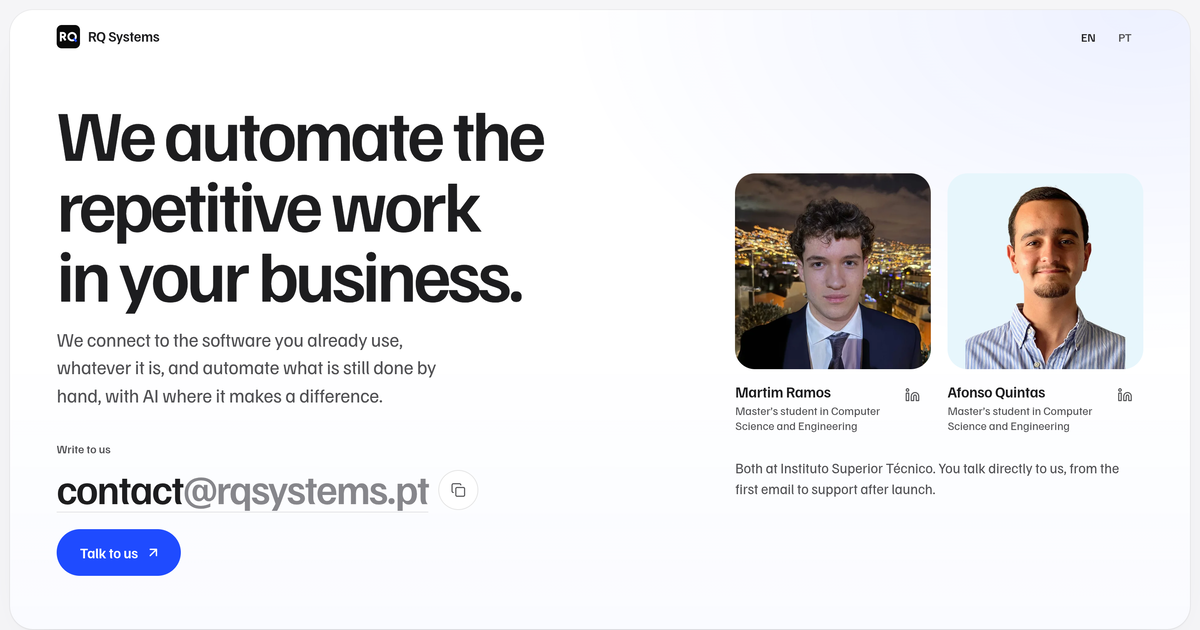
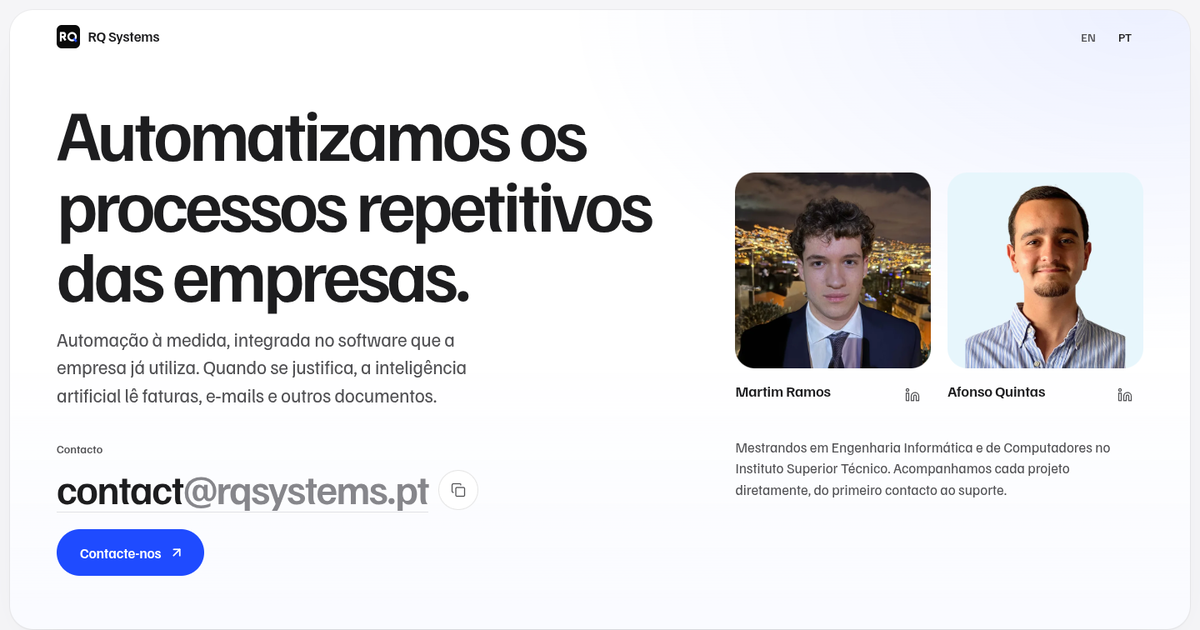
Portuguese by default, formal copy, Alphalink case study
- Portuguese at /, English at /en/; /pt/ redirects to / (301)
- Copy rewritten in formal, institutional European Portuguese (and
  matching English): no second person, AI described concretely, no
  promise of price or timeline
- Case study: Alphalink, linked, with emails filed and hours saved
  and how the hours were estimated; the offer under its own heading
- Lighter page: no repeated lines, shared crew line, Dropbox card
  hidden on mobile
- SEO: keyword titles, shorter meta descriptions, knowsAbout and a
  localised jobTitle in JSON-LD
- Share image recaptured from the Portuguese hero

diff --git a/src/styles/work.css b/src/styles/work.css
@@ -9,10 +9,20 @@
 .work h2 { margin: 0; font-size: clamp(2.25rem, 3.6vw, 3.5rem); font-weight: 600; line-height: 1; letter-spacing: -0.04em; text-wrap: balance; }
 .work-body { margin: 0; max-width: 30rem; color: var(--fg-2); font-size: 1.125rem; line-height: 1.55; text-wrap: pretty; }
 .work-body + .work-body { margin-top: -0.5rem; }
-/* The line that matters past this one client. */
-.work-body:nth-of-type(3) { color: var(--fg); font-weight: 500; }
-/* The ask, set off from the story by a rule, right above its button. */
-.work-ask { margin: 0.75rem 0 0; max-width: 30rem; font-size: 1.125rem; line-height: 1.55; padding-top: 1.5rem; border-top: 1px solid var(--rule); color: var(--fg-2); text-wrap: pretty; }
+.work-client { color: var(--fg); font-weight: 500; text-decoration: underline; text-decoration-color: var(--rule); text-decoration-thickness: 1px; text-underline-offset: 0.2em; transition: text-decoration-color 160ms var(--ease); }
+@media (hover: hover) { .work-client:hover { text-decoration-color: currentColor; } }
+/* Case study: the label, the outcome, then its numbers before the story. */
+.work-eyebrow { margin: 0 0 -0.75rem; color: var(--accent); font-size: 0.8125rem; font-weight: 600; letter-spacing: 0.08em; text-transform: uppercase; }
+.work-stats { display: grid; grid-template-columns: repeat(2, minmax(0, 1fr)); gap: 1.5rem; width: 100%; margin: 0; }
+.work-stats > div { display: flex; flex-direction: column-reverse; gap: 0.25rem; }
+.work-stats > div + div { padding-left: 1.5rem; border-left: 1px solid var(--rule); }
+.work-stats dt { color: var(--fg-2); font-size: 1rem; }
+.work-stats dd { margin: 0; font-size: clamp(2.25rem, 3.6vw, 3rem); font-weight: 600; line-height: 1; letter-spacing: -0.04em; font-variant-numeric: tabular-nums; white-space: nowrap; }
+.work-method { margin: -0.5rem 0 0; max-width: 30rem; color: var(--dim); font-size: 0.875rem; line-height: 1.5; text-wrap: pretty; }
+/* The offer, under its own heading, the full width after the case. */
+.work-cta { grid-column: 1 / -1; display: grid; gap: 1rem; justify-items: start; padding-top: clamp(2rem, 4vw, 3rem); border-top: 1px solid var(--rule); }
+.work-cta h2 { font-size: clamp(1.75rem, 2.8vw, 2.5rem); }
+.work-ask { margin: 0 0 0.5rem; max-width: 34rem; font-size: 1.125rem; line-height: 1.55; color: var(--fg-2); text-wrap: pretty; }
 
 /* Two plain windows side by side, stacked on narrow screens. */
 .flow { margin: 0; min-width: 0; }
@@ -56,22 +66,16 @@
 .ff-n { min-width: 2ch; color: var(--dim); font-size: 12.5px; text-align: right; font-variant-numeric: tabular-nums; }
 .ff.target svg, .ff.target .ff-n { color: var(--lime); }
 
-/* Stacked, the proof comes before the ask: text, then the demo, then the
-   button. */
+/* Stacked: text, demo, numbers, then the ask. */
 @media (max-width: 63.99rem) {
-  .work-copy { display: contents; }
-  .work > .work-copy > .btn, .work-ask { order: 2; }
-  .work > .work-copy > .btn { justify-self: start; }
-  .flow { order: 1; }
   .work { row-gap: 1.25rem; }
   .flow { margin-block: 1.5rem 0.75rem; }
-  .work h2, .work-body { margin: 0; }
-  .work h2 { margin-bottom: 0.5rem; }
-  .work-copy > .btn { margin-top: 0; }
 }
 
 
 @media (max-width: 40rem) {
   .fm { min-height: 0; }
-  .work > .work-copy > .btn { justify-self: stretch; }
+  .work-cta > .btn { justify-self: stretch; }
+  /* The Outlook card already shows where the email went. */
+  .db-card { display: none; }
 }

diff --git a/src/i18n.ts b/src/i18n.ts
@@ -6,22 +6,26 @@ export type Lang = 'en' | 'pt'
 const en = {
   htmlLang: 'en',
   ogLocale: 'en_GB',
-  title: 'RQ Systems',
-  ogTitle: 'RQ Systems',
+  title: 'Business process automation for SMEs | RQ Systems',
+  ogTitle: 'Business process automation for SMEs | RQ Systems',
   description:
-    'Automation built into whatever software your business already runs, with AI where it makes a difference. Designed and built by two Master’s students at Instituto Superior Técnico, Lisbon.',
+    'Custom process automation for SMEs, built into the software a business already uses. Artificial intelligence to read invoices and documents. Lisbon.',
   // What the business is, for search engines (JSON-LD in the layout).
-  about: 'Custom automation built into whatever software a small or medium business already runs, with AI where it makes a difference. Designed, built and maintained by its two founders, Master’s students in Computer Science and Engineering at Instituto Superior Técnico.',
+  knowsAbout: ['Business process automation', 'Software integration', 'Document processing'],
+  jobTitle: 'Co-founder',
+  about: 'Custom automation inside the software a small or medium business already uses, with artificial intelligence to read documents where it is useful. Built and maintained by its two founders, Master’s students in Computer Science and Engineering at Instituto Superior Técnico.',
 }
 
 const pt: typeof en = {
   htmlLang: 'pt-PT',
   ogLocale: 'pt_PT',
-  title: 'RQ Systems',
-  ogTitle: 'RQ Systems',
+  title: 'Automação de processos para PME | RQ Systems',
+  ogTitle: 'Automação de processos para PME | RQ Systems',
   description:
-    'Automação integrada no software que a sua empresa já usa, seja ele qual for, com IA onde faz diferença. Feita por dois mestrandos do Instituto Superior Técnico, em Lisboa.',
-  about: 'Automação à medida, integrada no software que uma PME já utiliza, seja ele qual for, com IA onde faz diferença. Desenhada, construída e mantida pelos dois fundadores, mestrandos em Engenharia Informática e de Computadores no Instituto Superior Técnico.',
+    'Automação de processos à medida para PME, integrada no software que a empresa já utiliza. Inteligência artificial para ler faturas e documentos. Lisboa.',
+  knowsAbout: ['Automação de processos', 'Integração de software', 'Processamento de documentos'],
+  jobTitle: 'Cofundador',
+  about: 'Automação à medida, dentro do software que uma PME já usa, com inteligência artificial para leitura de documentos quando se justifica. Desenvolvida e mantida pelos dois fundadores, mestrandos em Engenharia Informática e de Computadores no Instituto Superior Técnico.',
 }
 
 export const copy: Record<Lang, typeof en> = { en, pt }

diff --git a/src/drafts.ts b/src/drafts.ts
@@ -2,7 +2,7 @@ import type { Lang } from './i18n'
 
 // The one design: Type, in the light theme.
 export const drafts = [
-  { id: 'type', name: 'Type', paths: { en: '/', pt: '/pt/' }, index: true, theme: 'light' },
+  { id: 'type', name: 'Type', paths: { en: '/en/', pt: '/' }, index: true, theme: 'light' },
 ] as const
 export type Draft = (typeof drafts)[number]['id']
 export const design = (id: Draft) => drafts.find((d) => d.id === id)!
@@ -18,11 +18,10 @@ export const founders = [
 // automation into whatever software a business already runs.
 export const shared = {
   en: {
-    title: 'We automate the repetitive work in your business.',
-    lead: 'We connect to the software you already use, whatever it is, and automate what is still done by hand, with AI where it makes a difference.',
-    role: 'Master’s student in Computer Science and Engineering',
-    crew: 'Both at Instituto Superior Técnico. You talk directly to us, from the first email to support after launch.',
-    write: 'Write to us',
+    title: 'We automate repetitive business processes.',
+    lead: 'Custom automation, built into the software a business already uses. Where it is useful, artificial intelligence reads invoices, emails and other documents.',
+    crew: 'Master’s students in Computer Science and Engineering at Instituto Superior Técnico. We handle every project ourselves, from first contact to ongoing support.',
+    write: 'Contact',
     copyLabel: 'Copy address',
     copied: 'Address copied.',
     next: 'What we do',
@@ -31,11 +30,10 @@ export const shared = {
     home: 'RQ Systems home',
   },
   pt: {
-    title: 'Automatizamos o trabalho repetitivo da sua empresa.',
-    lead: 'Ligamo-nos ao software que já usa, seja ele qual for, e automatizamos o que hoje é feito à mão, com IA onde faz diferença.',
-    role: 'Mestrando em Engenharia Informática e de Computadores',
-    crew: 'Ambos no Instituto Superior Técnico. Fala diretamente connosco, do primeiro e-mail à manutenção.',
-    write: 'Escreva-nos',
+    title: 'Automatizamos os processos repetitivos das empresas.',
+    lead: 'Automação à medida, integrada no software que a empresa já utiliza. Quando se justifica, a inteligência artificial lê faturas, e‑mails e outros documentos.',
+    crew: 'Mestrandos em Engenharia Informática e de Computadores no Instituto Superior Técnico. Acompanhamos cada projeto diretamente, do primeiro contacto ao suporte.',
+    write: 'Contacto',
     copyLabel: 'Copiar endereço',
     copied: 'Endereço copiado.',
     next: 'O que fazemos',

diff --git a/src/styles/services.css b/src/styles/services.css
@@ -3,7 +3,6 @@
 .services { display: grid; gap: clamp(2.25rem, 4.5vw, 3.5rem); padding: clamp(4.5rem, 10vw, 8rem) var(--gutter) clamp(2rem, 5vw, 4rem); }
 .sv-head { display: grid; gap: 1rem; max-width: 40rem; }
 .services h2 { font-size: clamp(2rem, 3.6vw, 3.25rem); line-height: 1.05; letter-spacing: -0.04em; }
-.sv-head p { color: var(--fg-2); font-size: clamp(1.0625rem, 1.3vw, 1.1875rem); line-height: 1.5; text-wrap: pretty; }
 
 .sv-areas { list-style: none; margin: 0; padding: 0; display: grid; grid-template-columns: minmax(0, 1fr); gap: 2rem clamp(1.5rem, 3vw, 2.5rem); }
 @media (min-width: 40rem) { .sv-areas { grid-template-columns: repeat(2, minmax(0, 1fr)); } }
